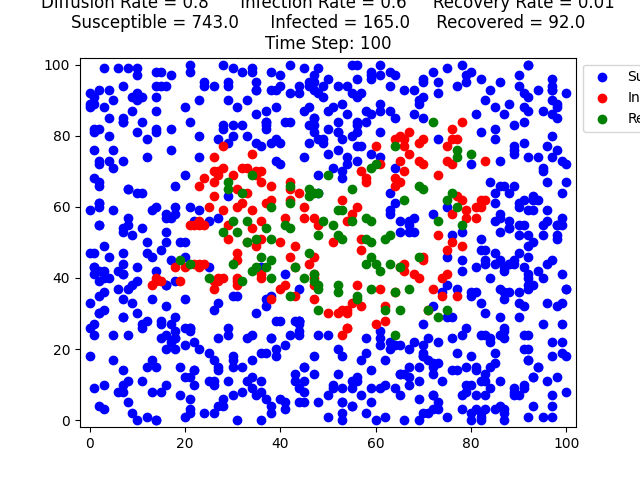
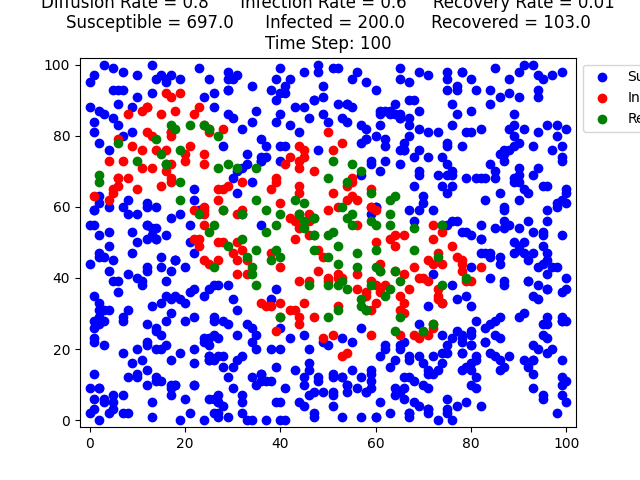
Done

diff --git a/HW1/HW1.py b/HW1/HW1.py
@@ -16,11 +16,11 @@ class DiseaseSpreading:
         self.infected = 0
         self.recovered = 0
 
-    def initialize_agents(self):
+    def initialize_agents(self, distribution_index=0.9):
         self.susceptible = np.ones((self.nr_agents, 1))  
-        self.susceptible[int(0.9 * self.nr_agents) : self.nr_agents] = 0    # Initially, 90% of agents are susceptible.
+        self.susceptible[int(distribution_index * self.nr_agents) : self.nr_agents] = 0    # Initially, 90% of agents are susceptible.
         self.infected = np.zeros((self.nr_agents, 1))    
-        self.infected[int(0.9 * self.nr_agents) : self.nr_agents] = 1       # Initially, 10% of agents are infected.
+        self.infected[int(distribution_index * self.nr_agents) : self.nr_agents] = 1       # Initially, 10% of agents are infected.
         self.recovered = np.zeros((self.nr_agents, 1))    # Initially, no agents have recovered.
 
     def initialize_agents_at_center(self):
@@ -28,18 +28,13 @@ class DiseaseSpreading:
         self.susceptible = np.ones((self.nr_agents, 1))
         self.infected = np.zeros((self.nr_agents, 1))
         self.recovered = np.zeros((self.nr_agents, 1))
-
-        agents_at_center = list()
+        
         for x in range(int(2*self.grid_length/5), int(3*self.grid_length/5)):
             for y in range(int(2*self.grid_length/5), int(3*self.grid_length/5)):
                 agent_index = self.get_agent_index(x, y)
                 if agent_index != -1:
-                    agents_at_center.append(agent_index)
-                
-        for agent in agents_at_center:
-            self.susceptible[agent] = 0
-            self.infected[agent] = 1            
-        
+                    self.susceptible[agent_index] = 0
+                    self.infected[agent_index] = 1          
 
     def draw_agents(self, current_time, DRAW_PATH=False):
         sus_index = np.where(self.susceptible == 1)[0]
